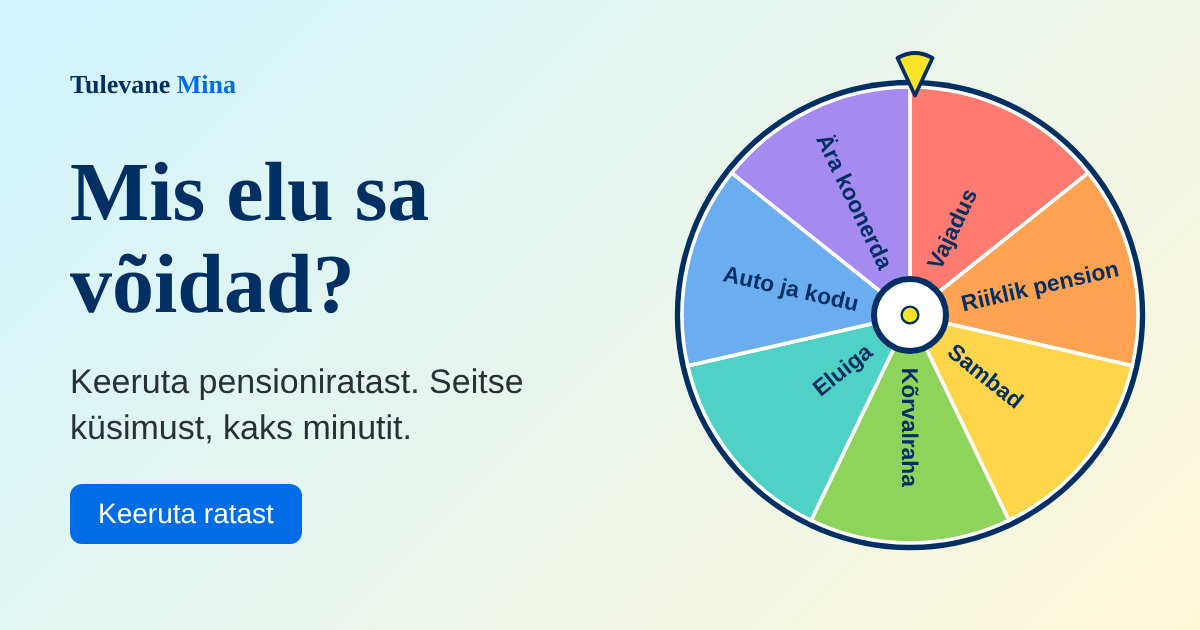
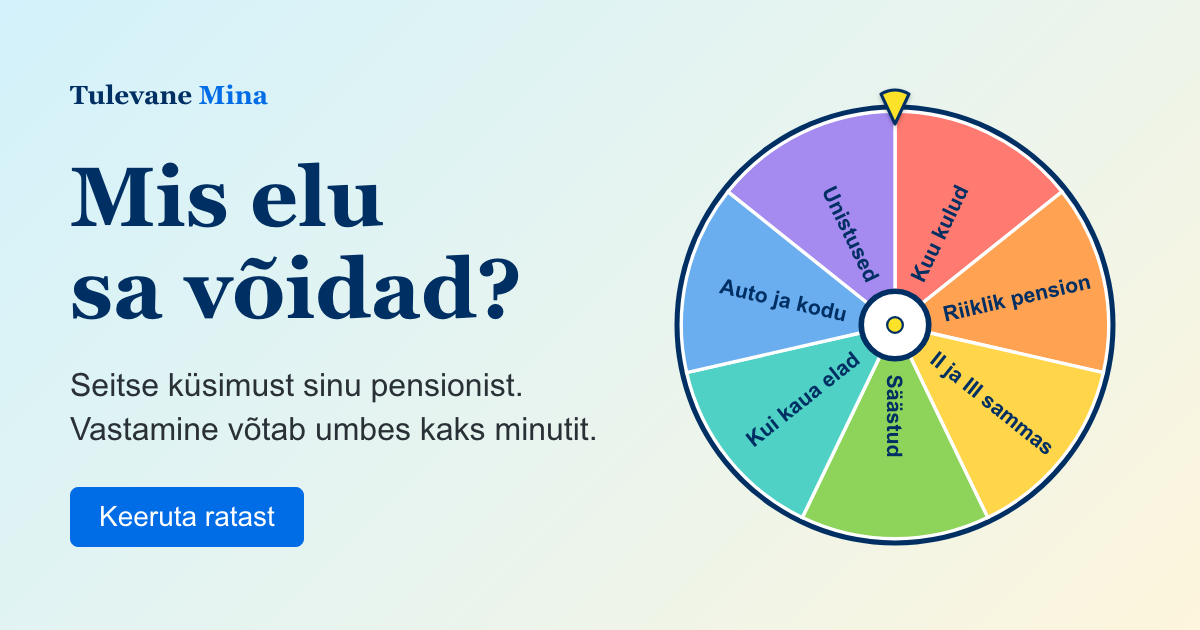
Õnneratas: selgemad tekstid, loetavad sildid, ligipääsetav veaolek
Küsimused
- Kõik seitse küsimust "Kas tead..." kujul, et sobiksid valikutega
  "Tean täpselt / Tean umbes / Ei tea" (varem "Umbes").
- Eluiga-küsimuse käändeviga ("panema number") kadus ümbersõnastusega.

Rattasildid
- Vajadus → Kuu kulud, Sambad → II ja III sammas, Kõrvalraha → Säästud,
  Eluiga → Kui kaua elad, Ära koonerda → Unistused.
- /tulemused kasutab uusi nimesid (andmetes on sektori number, vanad
  vastused jäävad samade teemade alla).
- Pärast peatumist pööratakse sildid ekraani järgi, et ükski poleks
  tagurpidi.

Avaleht
- Pealkirja all: "Ole enda vastu aus: keeruta pensioniratast ja ütle,
  millised teemad oled enda jaoks läbi mõelnud." + kestus + mida ratas teeb.
- Lahtiütlus: "nime ei küsi" eemaldatud (e-postis võib nimi olla);
  selgitus, et e-posti ei seota vastustega. Sama og:description'is.
- Peatumise kaart: "Esimene küsimus on sellel teemal, seejärel tulevad
  ülejäänud kuus."

Küsimuse leht (WCAG 2.1 AA)
- "Edasi" ei ole enam keelatud (kontrast oli 1,89:1); nüüd 4,9:1,
  hover 6,31:1. Keelatud nupud (ratas keerleb, e-post salvestub)
  jäävad täiskontrasti.
- Valikuta "Edasi": veateade "Vali üks vastus, et edasi minna.",
  punane ääris + ikoon, role=alert, aria-invalid, fookus esimesel valikul.
- Nähtav silt "Vali vastus (kohustuslik)".
- Vabatekst: silt "Mida tahaksid lisada? (pole kohustuslik)", hoiatus
  "Ära kirjuta nime ega numbreid." nähtavalt välja all (mitte placeholderis).

Tänuleht
[…]

diff --git a/public/ratas/ratas.js b/public/ratas/ratas.js
@@ -2,15 +2,15 @@
 // Salvestame vastused anonüümselt (/api/r). E-post läheb eraldi tabelisse ega seo end vastustega.
 const COL = ["#ff7a70", "#ffa352", "#ffd54a", "#8fd45a", "#4fd1c5", "#6aaef0", "#a58bf0"];
 const SEKTORID = [
-  { nimi: "Vajadus", q: "Homme hommikul ei pea sa enam tööle minema. Kui palju raha kuus on vaja, et su elu ikka hea tunduks?" },
-  { nimi: "Riiklik pension", q: "Kas sa tead, mis pensioni sulle riik lubab?" },
-  { nimi: "Sambad", q: "Kui palju on sul pensionisammastes ja kas sa tead, kus see on?" },
-  { nimi: "Kõrvalraha", q: "Kui palju raha on sul kõrval, mida saaksid homme kasutada?" },
-  { nimi: "Eluiga", q: "Kui peaksid panema number: mis vanuses sa lahkud? Ja kas su raha on selleks ajaks veel olemas?" },
-  { nimi: "Auto ja kodu", q: "Kas sa tahad ka 80-aastaselt oma autoga sõita ja oma kodus ärgata? Mis see sulle maksab?" },
-  { nimi: "Ära koonerda", q: "Mille pärast sa 80-aastaselt ei tahaks öelda: oleks ma siis ikka lubanud?" },
+  { nimi: "Kuu kulud", q: "Homme hommikul ei pea sa enam tööle minema. Kas tead, kui palju raha kuus sul vaja on, et elu ikka hea tunduks?" },
+  { nimi: "Riiklik pension", q: "Kas tead, kui suurt pensioni riik sulle maksma hakkab?" },
+  { nimi: "II ja III sammas", q: "Kas tead, kui palju raha on sul pensionisammastes ja kus see raha on?" },
+  { nimi: "Säästud", q: "Kas tead, kui palju on sul kõrvale pandud raha, mida saaksid kohe kasutada?" },
+  { nimi: "Kui kaua elad", q: "Kas tead, mis vanuseni sa tõenäoliselt elad ja kas su rahast jätkub nii kauaks?" },
+  { nimi: "Auto ja kodu", q: "Kas tead, mis maksab see, et saaksid ka 80-aastaselt oma autoga sõita ja oma kodus ärgata?" },
+  { nimi: "Unistused", q: "Kas tead, mida tahad endale pensionil kindlasti lubada, et 80-aastaselt ei peaks kahetsema?" },
 ];
-const VALIKUD = [["tean", "Tean täpselt"], ["umbes", "Umbes"], ["eitea", "Ei tea"]];
+const VALIKUD = [["tean", "Tean täpselt"], ["umbes", "Tean umbes"], ["eitea", "Ei tea"]];
 const N = SEKTORID.length;
 
 const $app = document.getElementById("app");
@@ -35,10 +35,17 @@ function ratas() {
     const [x1, y1] = pt(i * seg, R), [x2, y2] = pt((i + 1) * seg, R);
     w += `<path d="M${cx} ${cy} L${x1.toFixed(1)} ${y1.toFixed(1)} A${R} ${R} 0 0 1 ${x2.toFixed(1)} ${y2.toFixed(1)} Z" fill="${COL[i]}" stroke="#fff" stroke-width="3"/>`;
     const mid = (i + 0.5) * seg;
-    w += `<g transform="translate(${cx} ${cy}) rotate(${mid})"><text transform="rotate(${mid > 180 ? 90 : -90})" x="${mid > 180 ? -44 : 44}" y="7" text-anchor="${mid > 180 ? "end" : "start"}" font-size="19" font-weight="700" fill="#002f63" font-family="Roboto,Arial,sans-serif">${esc(s.nimi)}</text></g>`;
+    const [rot, x, anchor] = silt(mid);
+    w += `<g transform="translate(${cx} ${cy}) rotate(${mid})"><text class="lbl" data-mid="${mid}" transform="rotate(${rot})" x="${x}" y="7" text-anchor="${anchor}" font-size="19" font-weight="700" fill="#002f63" font-family="Roboto,Arial,sans-serif">${esc(s.nimi)}</text></g>`;
   });
   return `<div class="wheelbox"><svg viewBox="0 0 400 400" role="img" aria-label="Vikerkaarevärvi õnneratas seitsme sektoriga: ${SEKTORID.map((s) => s.nimi).join(", ")}"><circle cx="200" cy="200" r="196" fill="#002f63"/><g id="kettaGrp" style="transform:rotate(${st.angle}deg)">${w}</g><circle cx="200" cy="200" r="30" fill="#fff" stroke="#002f63" stroke-width="5"/><circle cx="200" cy="200" r="7" fill="#fce228" stroke="#002f63" stroke-width="2"/></svg>
 <svg class="pointer" viewBox="-2 -4 34 40" aria-hidden="true"><path d="M15 34 L1 4 Q15 -4 29 4 Z" fill="#fce228" stroke="#002f63" stroke-width="3" stroke-linejoin="round"/></svg></div>`;
+}
+
+// Silt loetakse ekraani, mitte ketta järgi: vasakul poolel pööratakse ümber, et tekst poleks tagurpidi.
+function silt(mid) { const abs = (((mid + st.angle) % 360) + 360) % 360; return abs > 180 ? [90, -44, "end"] : [-90, 44, "start"]; }
+function pooraSildid() {
+  $app.querySelectorAll(".lbl").forEach((t) => { const [rot, x, anchor] = silt(+t.dataset.mid); t.setAttribute("transform", `rotate(${rot})`); t.setAttribute("x", x); t.setAttribute("text-anchor", anchor); });
 }
 
 function shuffle(a) { for (let i = a.length - 1; i > 0; i--) { const j = Math.floor((crypto.getRandomValues(new Uint32Array(1))[0] / 4294967296) * (i + 1)); [a[i], a[j]] = [a[j], a[i]]; } return a; }
@@ -46,10 +53,12 @@ function shuffle(a) { for (let i = a.length - 1; i > 0; i--) { const j = Math.fl
 function intro() {
   st.samm = "intro";
   $app.innerHTML = `<section class="intro"><h1>Mis elu sa võidad?</h1>
-<p>Keeruta ratast. Ta valib, millise pensioniküsimusega alustad. Kokku seitse küsimust, umbes kaks minutit.</p>
+<p class="lead">Ole enda vastu aus: keeruta pensioniratast ja ütle, millised teemad oled enda jaoks läbi mõelnud.</p>
+<p>Seitse küsimust, vastamine võtab umbes kaks minutit.</p>
+<p>Ratas valib, millisele küsimusele vastad esimesena.</p>
 ${ratas()}
 <div id="alla"><button class="btn block spinbtn" id="spin">Keeruta ratast</button></div>
-<p class="hint">Mäng ja test, mitte ennustus ega nõuanne. Nime ei küsi, vastused on anonüümsed.</p></section>`;
+<p class="hint">See ei ole ennustus ega finantsnõuanne. Vastused on anonüümsed.<br>Kui jätad lõpus e-posti, ei seo me seda vastustega.</p></section>`;
   $app.querySelector("#spin").addEventListener("click", keeruta);
   document.title = "Mis elu sa võidad? · Tulevane Mina";
 }
@@ -70,7 +79,8 @@ function keeruta() {
 
 function maandus() {
   const s = SEKTORID[st.maandus];
-  $app.querySelector("#alla").innerHTML = `<div class="landed" style="background:${COL[st.maandus]}"><span>Ratas peatus</span><b>${esc(s.nimi)}</b><span>Alustad sellega. Ülejäänud kuus tulevad segamini.</span></div>
+  pooraSildid();
+  $app.querySelector("#alla").innerHTML = `<div class="landed" style="background:${COL[st.maandus]}"><span>Ratas peatus</span><b>${esc(s.nimi)}</b><span>Esimene küsimus on sellel teemal, seejärel tulevad ülejäänud kuus.</span></div>
 <button class="btn block spinbtn" id="alusta" style="margin-top:12px">Alusta küsimustega</button>`;
   say("Ratas peatus sektoril " + s.nimi);
   const b = $app.querySelector("#alusta"); b.addEventListener("click", () => { st.i = 0; kysimus(); }); b.focus();
@@ -84,13 +94,20 @@ function kysimus() {
 <div class="proglab"><span>Küsimus ${st.i + 1} / ${N}</span><span>${N - st.i - 1 ? "veel " + (N - st.i - 1) : "viimane"}</span></div>
 <span class="chipS" style="background:${COL[sek]}">${esc(s.nimi)}</span>
 <h2 class="qh">${esc(s.q)}</h2>
-<fieldset><legend class="sr">Sinu vastus</legend>${VALIKUD.map(([k, l]) => `<label class="ch"><input type="radio" name="valik" value="${k}" ${v.valik === k ? "checked" : ""}><span>${l}</span></label>`).join("")}</fieldset>
-<label class="f"><span>Oma sõnadega (pole kohustuslik)</span><textarea id="tekst" maxlength="280" placeholder="Mis tuli pähe? Ära kirjuta nime ega numbreid.">${esc(v.tekst)}</textarea></label>
-<div class="sticky${st.i ? "" : " solo"}">${st.i ? '<button class="btn out" id="tagasi">Tagasi</button>' : ""}<button class="btn" id="edasi" ${v.valik ? "" : "disabled"}>${st.i === N - 1 ? "Lõpeta" : "Edasi"}</button></div>`;
+<fieldset id="valikud" role="radiogroup" aria-required="true" aria-describedby="valikViga"><legend class="req">Vali vastus (kohustuslik)</legend>${VALIKUD.map(([k, l]) => `<label class="ch"><input type="radio" name="valik" value="${k}" ${v.valik === k ? "checked" : ""}><span>${l}</span></label>`).join("")}<p class="err fielderr" id="valikViga" role="alert" hidden></p></fieldset>
+<label class="f"><span>Mida tahaksid lisada? (pole kohustuslik)</span><textarea id="tekst" maxlength="280" aria-describedby="tekstVihje">${esc(v.tekst)}</textarea><span class="small" id="tekstVihje">Ära kirjuta nime ega numbreid.</span></label>
+<div class="sticky${st.i ? "" : " solo"}">${st.i ? '<button class="btn out" id="tagasi">Tagasi</button>' : ""}<button class="btn" id="edasi">${st.i === N - 1 ? "Lõpeta" : "Edasi"}</button></div>`;
   const edasi = $app.querySelector("#edasi");
-  $app.querySelectorAll("input[name=valik]").forEach((r) => r.addEventListener("change", () => (edasi.disabled = false)));
+  const $fs = $app.querySelector("#valikud"), $viga = $app.querySelector("#valikViga");
+  const vigaPeitu = () => { $viga.hidden = true; $viga.textContent = ""; $fs.classList.remove("invalid"); $fs.querySelectorAll("input").forEach((r) => r.removeAttribute("aria-invalid")); };
+  $app.querySelectorAll("input[name=valik]").forEach((r) => r.addEventListener("change", vigaPeitu));
   edasi.addEventListener("click", () => {
-    const valik = $app.querySelector("input[name=valik]:checked")?.value; if (!valik) return;
+    const valik = $app.querySelector("input[name=valik]:checked")?.value;
+    if (!valik) {
+      $viga.textContent = "Vali üks vastus, et edasi minna."; $viga.hidden = false; $fs.classList.add("invalid");
+      $fs.querySelectorAll("input").forEach((r) => r.setAttribute("aria-invalid", "true"));
+      $fs.querySelector("input").focus(); return;
+    }
     const tekst = $app.querySelector("#tekst").value.trim().slice(0, 280);
     st.vastused[sek] = { valik, tekst };
     send({ ev: "answer", sektor: sek, pos: st.i + 1, valik, tekst });
@@ -107,9 +124,9 @@ function lopp() {
   send({ ev: "done" });
   const cnt = { tean: 0, umbes: 0, eitea: 0 }; Object.values(st.vastused).forEach((a) => cnt[a.valik]++);
   const eitea = Object.entries(st.vastused).filter(([, a]) => a.valik === "eitea").map(([k]) => SEKTORID[k].nimi);
-  const jutt = eitea.length ? `Sa ei teadnud ${eitea.length === 1 ? "ühte asja" : eitea.length + " asja"}: ${eitea.map((x) => x.toLowerCase()).join(", ")}. Just seal aitab elukaar.` : "Sa teadsid kõike täpselt või umbes. Seda juhtub harva.";
+  const jutt = eitea.length ? `${eitea.length === 1 ? "Üks teema" : eitea.length + " teemat"} jäi sulle lahtiseks: ${eitea.map((x) => x.toLowerCase()).join(", ")}. Pühapäeval avatav prototüüp aitab need välja selgitada.` : "Sa teadsid kõike täpselt või umbes. Seda juhtub harva.";
   $app.innerHTML = `<section class="card thanks"><h1>Aitäh, see aitas meid</h1>
-<p>See oli sisendi- ja resoneerimistest. Me ei andnud sulle vastust, tahame teada, millest sa aru said ja mis jäi puudu.</p>
+<p>Siin polnud õigeid ega valesid vastuseid. Tahtsime teada, mida sa oma pensionist juba tead ja mis on veel lahtine.</p>
 <div class="sumrow"><div><b>${cnt.tean}</b><span>täpselt</span></div><div><b>${cnt.umbes}</b><span>umbes</span></div><div><b>${cnt.eitea}</b><span>ei tea</span></div></div>
 <p class="small">${esc(jutt)}</p></section>
 <form class="card" id="meil" novalidate><h2>Tahad päris lahendust proovida?</h2>
@@ -119,8 +136,8 @@ function lopp() {
 <label class="chk"><input type="checkbox" id="nous"><span>Nõustun, et mulle saadetakse selle prototüübi testilink. Kasutame e-posti ainult selleks ega seo seda sinu vastustega.</span></label>
 <p class="err" id="viga" role="alert" hidden></p>
 <button class="btn block" type="submit">Saada mulle link</button>
-<p class="small">E-posti ei pea jätma. Vastused on ka ilma selleta salvestatud.</p></form>
-<div class="card"><h2>Näita sõbrale</h2><p class="small">Mida rohkem erinevaid inimesi vastab, seda parem lahendus.</p><button class="btn out block" id="jaga">Jaga ratast</button></div>`;
+<p class="small">E-posti ei pea jätma. Su vastused on salvestatud ka ilma selleta.</p></form>
+<div class="card"><h2>Näita sõbrale</h2><p class="small">Mida rohkem erinevaid inimesi vastab, seda parema lahenduse saame teha.</p><button class="btn out block" id="jaga">Jaga ratast</button></div>`;
   $app.querySelector("#meil").addEventListener("submit", meil);
   $app.querySelector("#jaga").addEventListener("click", jaga);
   document.title = "Aitäh · Tulevane Mina";
@@ -140,7 +157,7 @@ async function meil(e) {
     if (!r.ok) throw new Error();
     f.innerHTML = '<div class="ok" role="status"><b>Aitäh!</b> Saadame lingi pühapäeva hommikul.</div>';
     say("E-post salvestatud");
-  } catch { nupp.disabled = false; er.textContent = "Ei saanud salvestada. Proovi hetke pärast uuesti."; er.hidden = false; }
+  } catch { nupp.disabled = false; er.textContent = "E-posti salvestamine ebaõnnestus. Proovi hetke pärast uuesti."; er.hidden = false; }
 }
 
 async function jaga() {

diff --git a/public/ratas/ratas.css b/public/ratas/ratas.css
@@ -5,11 +5,14 @@ main { padding-bottom: 96px; }
 .intro { display: grid; gap: 12px; text-align: center; }
 .intro h1 { font-size: 32px; line-height: 40px; }
 .intro p { margin: 0; }
+.intro .lead { font-size: 19px; font-weight: 600; }
 .wheelbox { position: relative; width: min(88vw, 380px); aspect-ratio: 1; margin: 4px auto 0; }
 .wheelbox > svg:first-child { width: 100%; height: 100%; display: block; overflow: visible; }
 #kettaGrp { transform-origin: 200px 200px; transform-box: view-box; transition: transform 4.8s cubic-bezier(.1,.72,.12,1); }
 .wheelbox .pointer { position: absolute; left: 50%; top: -14px; width: 34px; height: 40px; transform: translateX(-50%); z-index: 2; filter: drop-shadow(0 2px 2px rgba(0,0,0,.25)); }
 .spinbtn { font-size: 18px; min-height: 56px; }
+/* keelatud nupp (ratas keerleb, e-post salvestub): tekst jääb täiskontrasti, mitte plaan.css-i opacity .45 */
+.btn:disabled { opacity: 1; background: var(--navy); border-color: var(--navy); cursor: progress; }
 .hint { color: var(--text-2); font-size: 14px; line-height: 20px; }
 .landed { border-radius: var(--r-xl); padding: 16px; display: grid; gap: 8px; text-align: center; color: var(--navy); }
 .landed b { font-family: var(--serif); font-size: 24px; line-height: 32px; display: block; }
@@ -23,6 +26,13 @@ main { padding-bottom: 96px; }
 .qh { font-size: 24px; line-height: 32px; }
 fieldset { border: 0; padding: 0; margin: 0; display: grid; gap: 8px; min-width: 0; }
 legend { padding: 0; }
+/* „(kohustuslik)“ samas stiilis nagu „Oma sõnadega (pole kohustuslik)“ */
+legend.req { font-size: 14px; margin-bottom: 4px; }
+/* veaolek: punane ääris + ikoon + tekst, mitte ainult värv */
+fieldset.invalid .ch span { border-color: var(--red); }
+fieldset.invalid .ch span::before { border-color: var(--red); }
+.fielderr { display: flex; align-items: center; gap: 6px; font-weight: 600; }
+.fielderr::before { content: "!"; display: inline-grid; place-items: center; width: 20px; height: 20px; border-radius: 50%; background: var(--red); color: var(--white); font-size: 13px; font-weight: 700; flex: none; }
 .ch { position: relative; }
 .ch input { position: absolute; opacity: 0; inset: 0; margin: 0; cursor: pointer; width: 100%; height: 100%; }
 .ch span { display: flex; align-items: center; gap: 10px; min-height: 56px; padding: 10px 14px; border: 2px solid var(--border-2); border-radius: var(--r-lg); font-weight: 500; background: var(--white); }
@@ -30,6 +40,7 @@ legend { padding: 0; }
 .ch input:checked + span { border-color: var(--navy); background: var(--hero); }
 .ch input:checked + span::before { border-color: var(--navy); background: radial-gradient(var(--navy) 0 45%, transparent 50%); }
 .ch input:focus-visible + span { outline: 3px solid rgba(0,108,230,.45); outline-offset: 2px; }
+textarea::placeholder { color: var(--text-2); opacity: 1; }
 textarea { width: 100%; min-height: 84px; padding: 10px 12px; border: 1px solid var(--border-2); border-radius: var(--r); font: inherit; resize: vertical; }
 .sticky { position: sticky; bottom: 0; background: var(--white); padding: 10px 0 max(10px, env(safe-area-inset-bottom)); display: grid; grid-template-columns: 1fr 2fr; gap: 8px; box-shadow: 0 -8px 12px -8px rgba(0,0,0,.12); }
 .sticky .btn { min-height: 52px; }

diff --git a/src/index.js b/src/index.js
@@ -334,7 +334,7 @@ async function plaanTulemused(env, url, all) {
 // E-post läheb eraldi tabelisse ilma sid-ita, et seda ei saaks vastustega siduda.
 const R_EV = new Set(["spin", "answer", "done", "email"]);
 const R_VALIK = new Set(["tean", "umbes", "eitea"]);
-const R_NIMED = ["Vajadus", "Riiklik pension", "Sambad", "Kõrvalraha", "Eluiga", "Auto ja kodu", "Ära koonerda"];
+const R_NIMED = ["Kuu kulud", "Riiklik pension", "II ja III sammas", "Säästud", "Kui kaua elad", "Auto ja kodu", "Unistused"];
 const R_SCHEMA = [
   "CREATE TABLE IF NOT EXISTS ratas_sundmused (id INTEGER PRIMARY KEY, ts TEXT NOT NULL, host TEXT, sid TEXT, ev TEXT, allikas TEXT, jarjekord TEXT, sektor INTEGER, pos INTEGER, valik TEXT, tekst TEXT)",
   "CREATE TABLE IF NOT EXISTS ratas_meilid (id INTEGER PRIMARY KEY, ts TEXT NOT NULL, host TEXT, email TEXT NOT NULL UNIQUE, allikas TEXT)",

diff --git a/public/ratas/index.html b/public/ratas/index.html
@@ -10,7 +10,7 @@
 <meta property="og:locale" content="et_EE">
 <meta property="og:site_name" content="Tulevane Mina">
 <meta property="og:title" content="Mis elu sa võidad? Keeruta pensioniratast">
-<meta property="og:description" content="Seitse küsimust sinu pensionipõlvest. Ratas valib, millega alustad. Kaks minutit, nime ei küsi.">
+<meta property="og:description" content="Seitse küsimust sinu pensionipõlvest. Ratas valib, millega alustad. Kaks minutit, vastused on anonüümsed.">
 <meta property="og:url" content="https://mina.tulevane.workers.dev/ratas/">
 <meta property="og:image" content="https://mina.tulevane.workers.dev/ratas/og.png">
 <meta property="og:image:width" content="1200">
